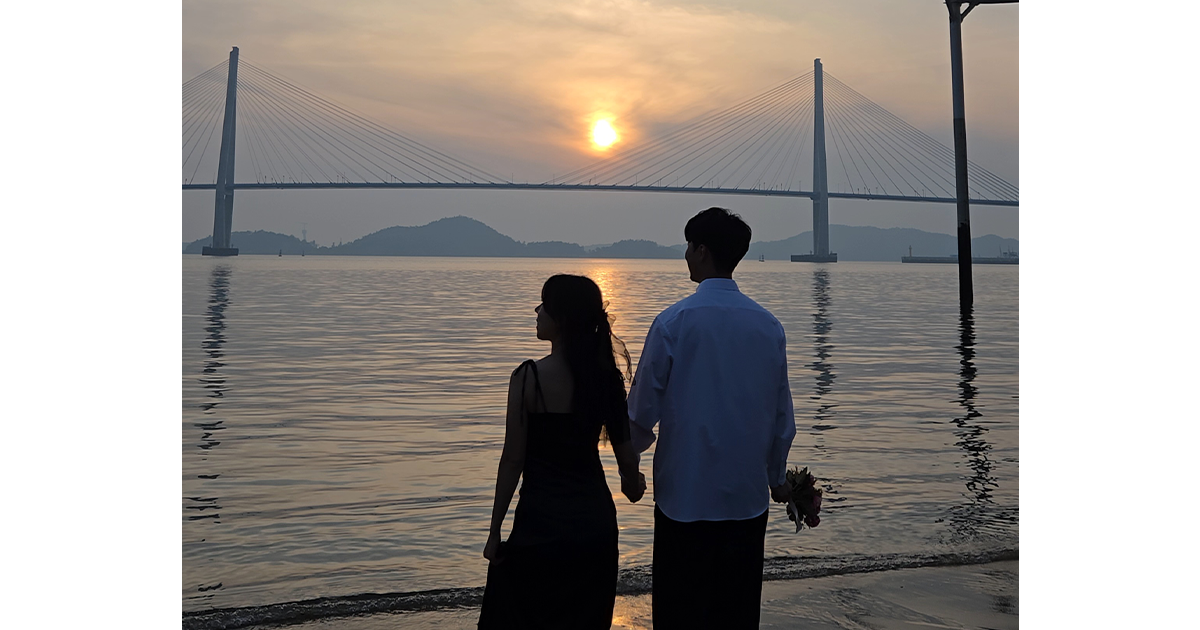
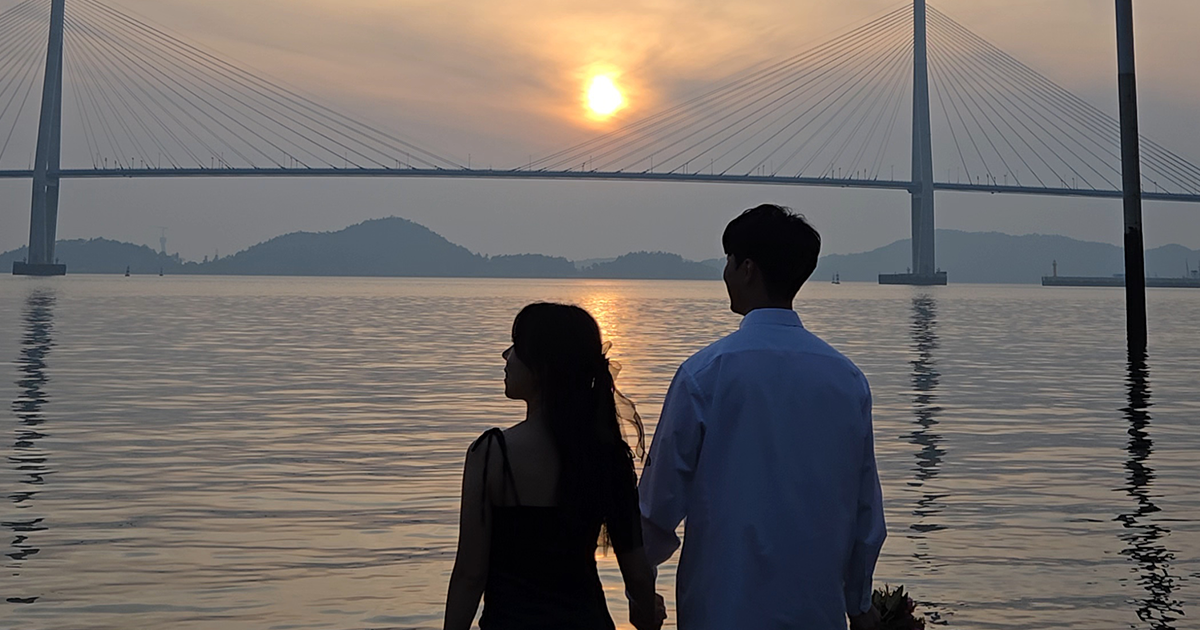
Update QR and src

diff --git a/src/app/page.tsx b/src/app/page.tsx
@@ -1102,15 +1102,24 @@ const drawQrPreview = async () => {
 const downloadQr = async (type: "heart" | "normal") => {
   const canvas = await createQrCanvas(type);
 
-  const link = document.createElement("a");
-  link.href = canvas.toDataURL("image/png");
+  canvas.toBlob((blob) => {
+    if (!blob) return;
 
-  link.download =
-    type === "heart"
-      ? "junseok♡seonyoung-heart-qr.png"
-      : "junseok♡seonyoung-qr.png";
+    const url = URL.createObjectURL(blob);
+    const link = document.createElement("a");
 
-  link.click();
+    link.href = url;
+    link.download =
+      type === "heart"
+        ? "junseok♡seonyoung-heart-qr.png"
+        : "junseok♡seonyoung-qr.png";
+
+    document.body.appendChild(link);
+    link.click();
+    link.remove();
+
+    URL.revokeObjectURL(url);
+  }, "image/png");
 };
 
 const shareInvitation = () => {
